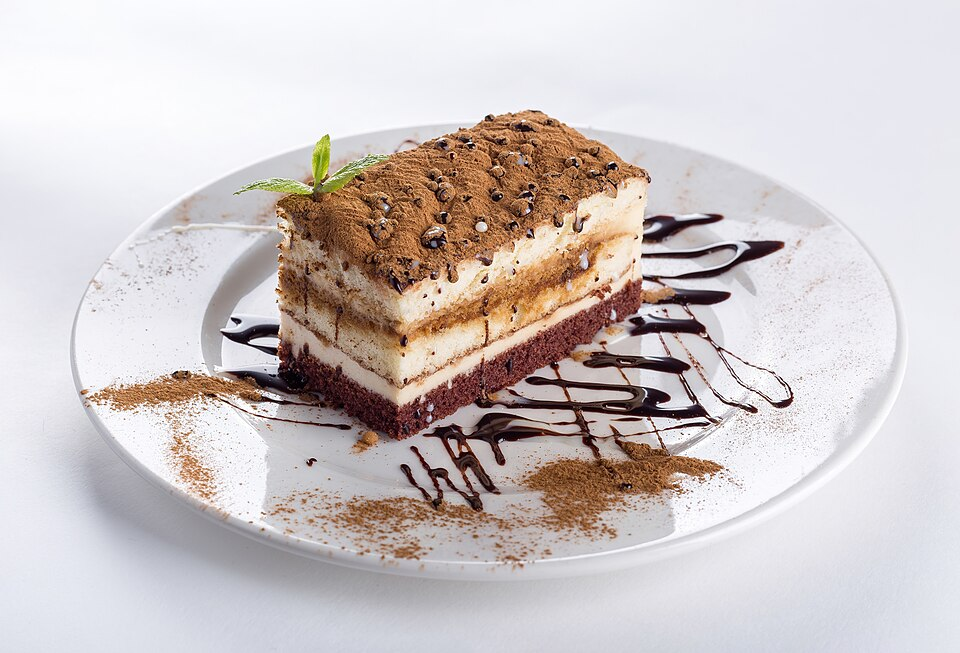
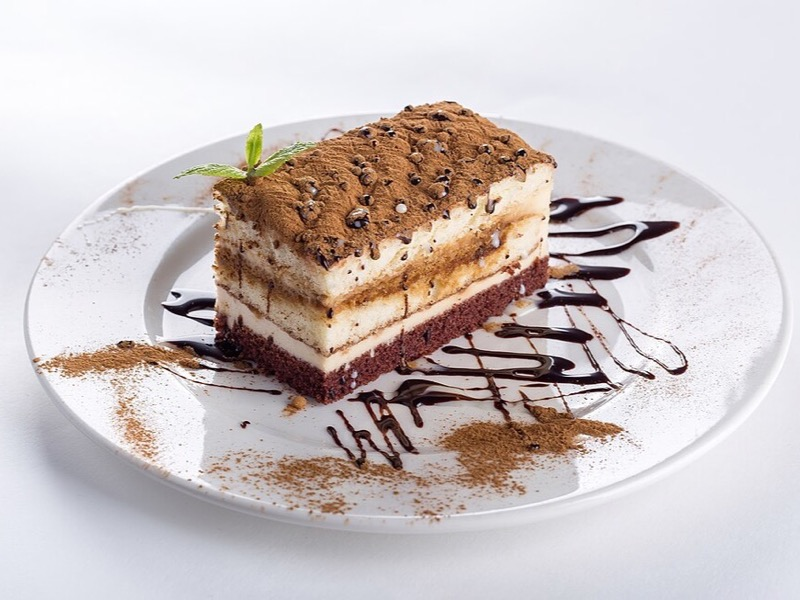
Uniformar y centrar imágenes del carrito (800x600, 4:3)

diff --git a/index.html b/index.html
@@ -643,19 +643,19 @@ h2 { font-size: clamp(2rem, 4.5vw, 3.4rem); font-weight: 800; letter-spacing: -0
           </div>
           <div class="cart-products">
             <button class="cart-product" type="button" data-name="Café de especialidad" data-price="4500">
-              <img class="cart-product-img" src="assets/producto-cafe.jpg" alt="Café de especialidad" loading="lazy" width="960" height="720">
+              <img class="cart-product-img" src="assets/producto-cafe.jpg" alt="Café de especialidad" loading="lazy" width="800" height="600">
               <span class="cart-product-name">Café de especialidad</span>
               <span class="cart-product-price">$4.500</span>
               <span class="cart-add">Agregar +</span>
             </button>
             <button class="cart-product" type="button" data-name="Taza artesanal" data-price="8900">
-              <img class="cart-product-img" src="assets/producto-taza.webp" alt="Taza artesanal" loading="lazy" width="437" height="293">
+              <img class="cart-product-img" src="assets/producto-taza.jpg" alt="Taza artesanal" loading="lazy" width="800" height="600">
               <span class="cart-product-name">Taza artesanal</span>
               <span class="cart-product-price">$8.900</span>
               <span class="cart-add">Agregar +</span>
             </button>
             <button class="cart-product" type="button" data-name="Torta del día" data-price="6500">
-              <img class="cart-product-img" src="assets/producto-torta.jpg" alt="Torta del día" loading="lazy" width="960" height="653">
+              <img class="cart-product-img" src="assets/producto-torta.jpg" alt="Torta del día" loading="lazy" width="800" height="600">
               <span class="cart-product-name">Torta del día</span>
               <span class="cart-product-price">$6.500</span>
               <span class="cart-add">Agregar +</span>
